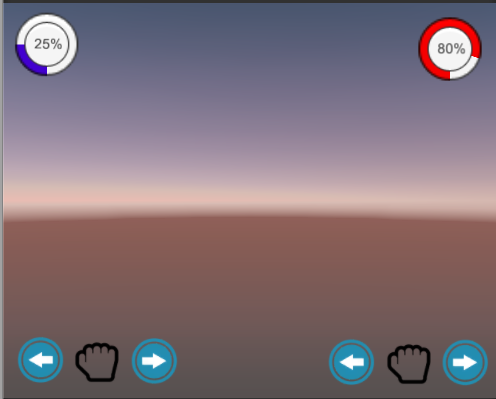
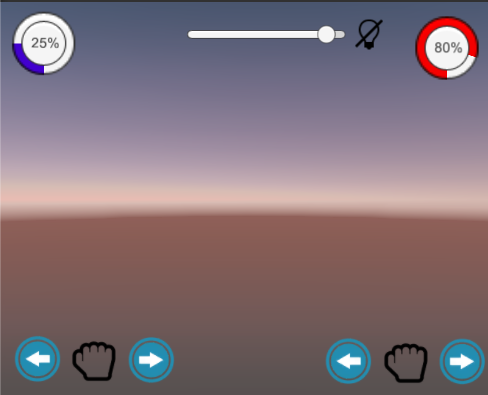
mod

diff --git a/README.md b/README.md
@@ -1,6 +1,9 @@
 # Esercizio del 23 maggio 2017
 
 A partire dalla scena del combattimento tra cowboy, si aggiunga una interfaccia grafica che disponga dei controller di seguito elencati. Tra parentesi è indicata l'/le immagine/i da usare per la personalizzazione dell'UI element.
+Tutti gli UI elements si trovano su un panel che ha come sfondo l'immagine menuBackground.jpg
+
+
 
 1. Un selettore che permette di accendere e spegnere la luce nella scena (lighton e lightoff)
 2. Uno slider che permette di controllare l'intensità luminosa della luce presente
